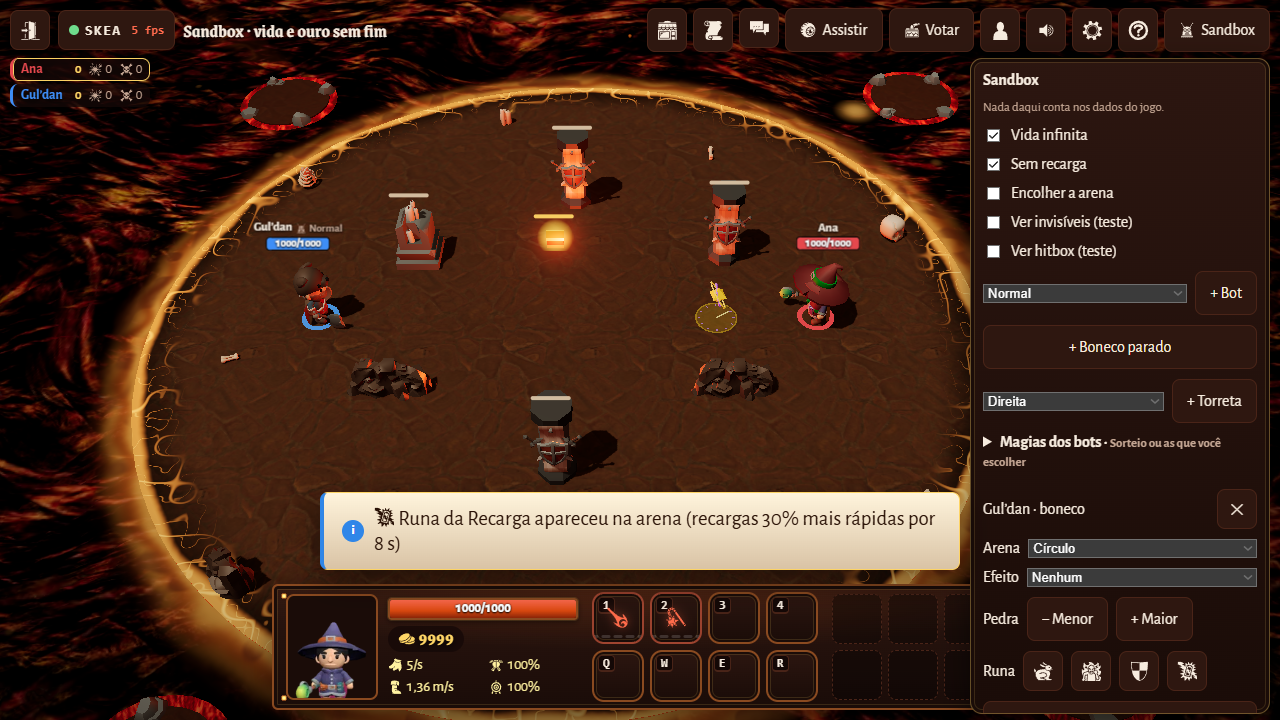
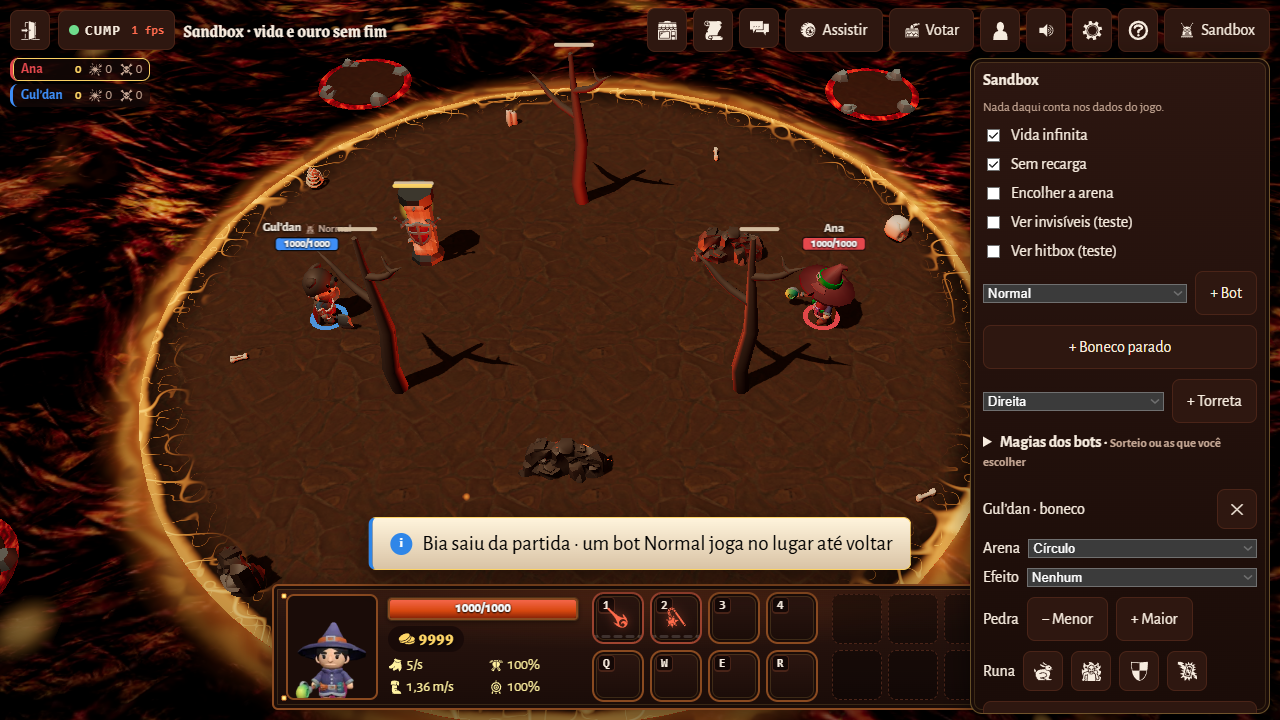
style: letra e ícones dos avisos em preto

diff --git a/src/client/style.css b/src/client/style.css
@@ -19,7 +19,7 @@
   --plate: linear-gradient(180deg, var(--panel-top), var(--panel-bot));
   /* pergaminho claro dos avisos: destaca por cima da lava e da pedra escura, que têm o mesmo tom do --plate */
   --paper: linear-gradient(180deg, var(--cream), var(--stone));
-  /* cores dos avisos no pergaminho: azul de informação e vermelho vivo de erro, sem marrom (o resto da tela já é marrom) */
+  /* cores dos avisos no pergaminho: azul de informação e vermelho vivo de erro; letra e ícones em preto (--ink): nada marrom no aviso, o resto da tela já é marrom */
   --toast-info: #2f86e8; --toast-bad: #e8261c;
   --plate-edge: inset 0 0 0 3px var(--panel-bot), inset 0 0 0 4px var(--gold-faint);
   /* moldura de jogo dos painéis: rebite dourado nos 4 cantos e brilho de lava atrás do título (camadas por cima do --plate) */
@@ -286,7 +286,7 @@ button.kick:hover { background: rgba(255, 106, 77, .15); }
 .wiz-label .hp-extra .rush { color: #ff9640; }
 
 /* letra 1,3x do tamanho normal, a mesma do aviso de quem saiu (PR #234), e fundo claro: o aviso aparece por poucos segundos no meio da partida e precisa ser lido de relance */
-#toast { position: fixed; left: 50%; bottom: calc(150px + var(--safe-b)); transform: translateX(-50%); background: var(--paper); color: var(--cream-ink); border: 1px solid var(--gold); box-shadow: var(--shadow-md); padding: 13px 18px; border-radius: var(--r-sm); font-size: 1.3rem; opacity: 0; transition: opacity .2s; pointer-events: none; max-width: calc(100% - 32px); overflow-wrap: anywhere; z-index: 20; user-select: text; }
+#toast { position: fixed; left: 50%; bottom: calc(150px + var(--safe-b)); transform: translateX(-50%); background: var(--paper); color: var(--ink); border: 1px solid var(--gold); box-shadow: var(--shadow-md); padding: 13px 18px; border-radius: var(--r-sm); font-size: 1.3rem; opacity: 0; transition: opacity .2s; pointer-events: none; max-width: calc(100% - 32px); overflow-wrap: anywhere; z-index: 20; user-select: text; }
 #toast.show { opacity: 1; pointer-events: auto; }
 /* com uma loja aberta o clique atravessa o aviso: ele fica por cima da última fileira de cartas e tapava a compra (issue #208) */
 body:has(.center .shop, .peek-shop:not([hidden]) .shop) #toast { pointer-events: none; }
@@ -616,7 +616,7 @@ button.primary.urgent:not(:disabled) { animation: urgent .45s ease-in-out infini
 #toast::before { flex: none; width: 22px; height: 22px; border-radius: 50%; display: grid; place-items: center; font-size: .8rem; font-weight: 800; content: 'i'; background: var(--toast-info); color: var(--white); }
 /* no fundo claro o ícone é um disco cheio da cor do tipo com o símbolo escuro: a cor clara sobre o pergaminho sumia */
 #toast[data-kind="good"] { border-left-color: var(--ok); }
-#toast[data-kind="good"]::before { content: '✓'; background: var(--ok); color: var(--cream-ink); }
+#toast[data-kind="good"]::before { content: '✓'; background: var(--ok); color: var(--ink); }
 #toast[data-kind="bad"] { border-left-color: var(--toast-bad); }
 #toast[data-kind="bad"]::before { content: '!'; background: var(--toast-bad); color: var(--white); }
 #toast[data-kind="gold"] { border-left-color: var(--gold); }
